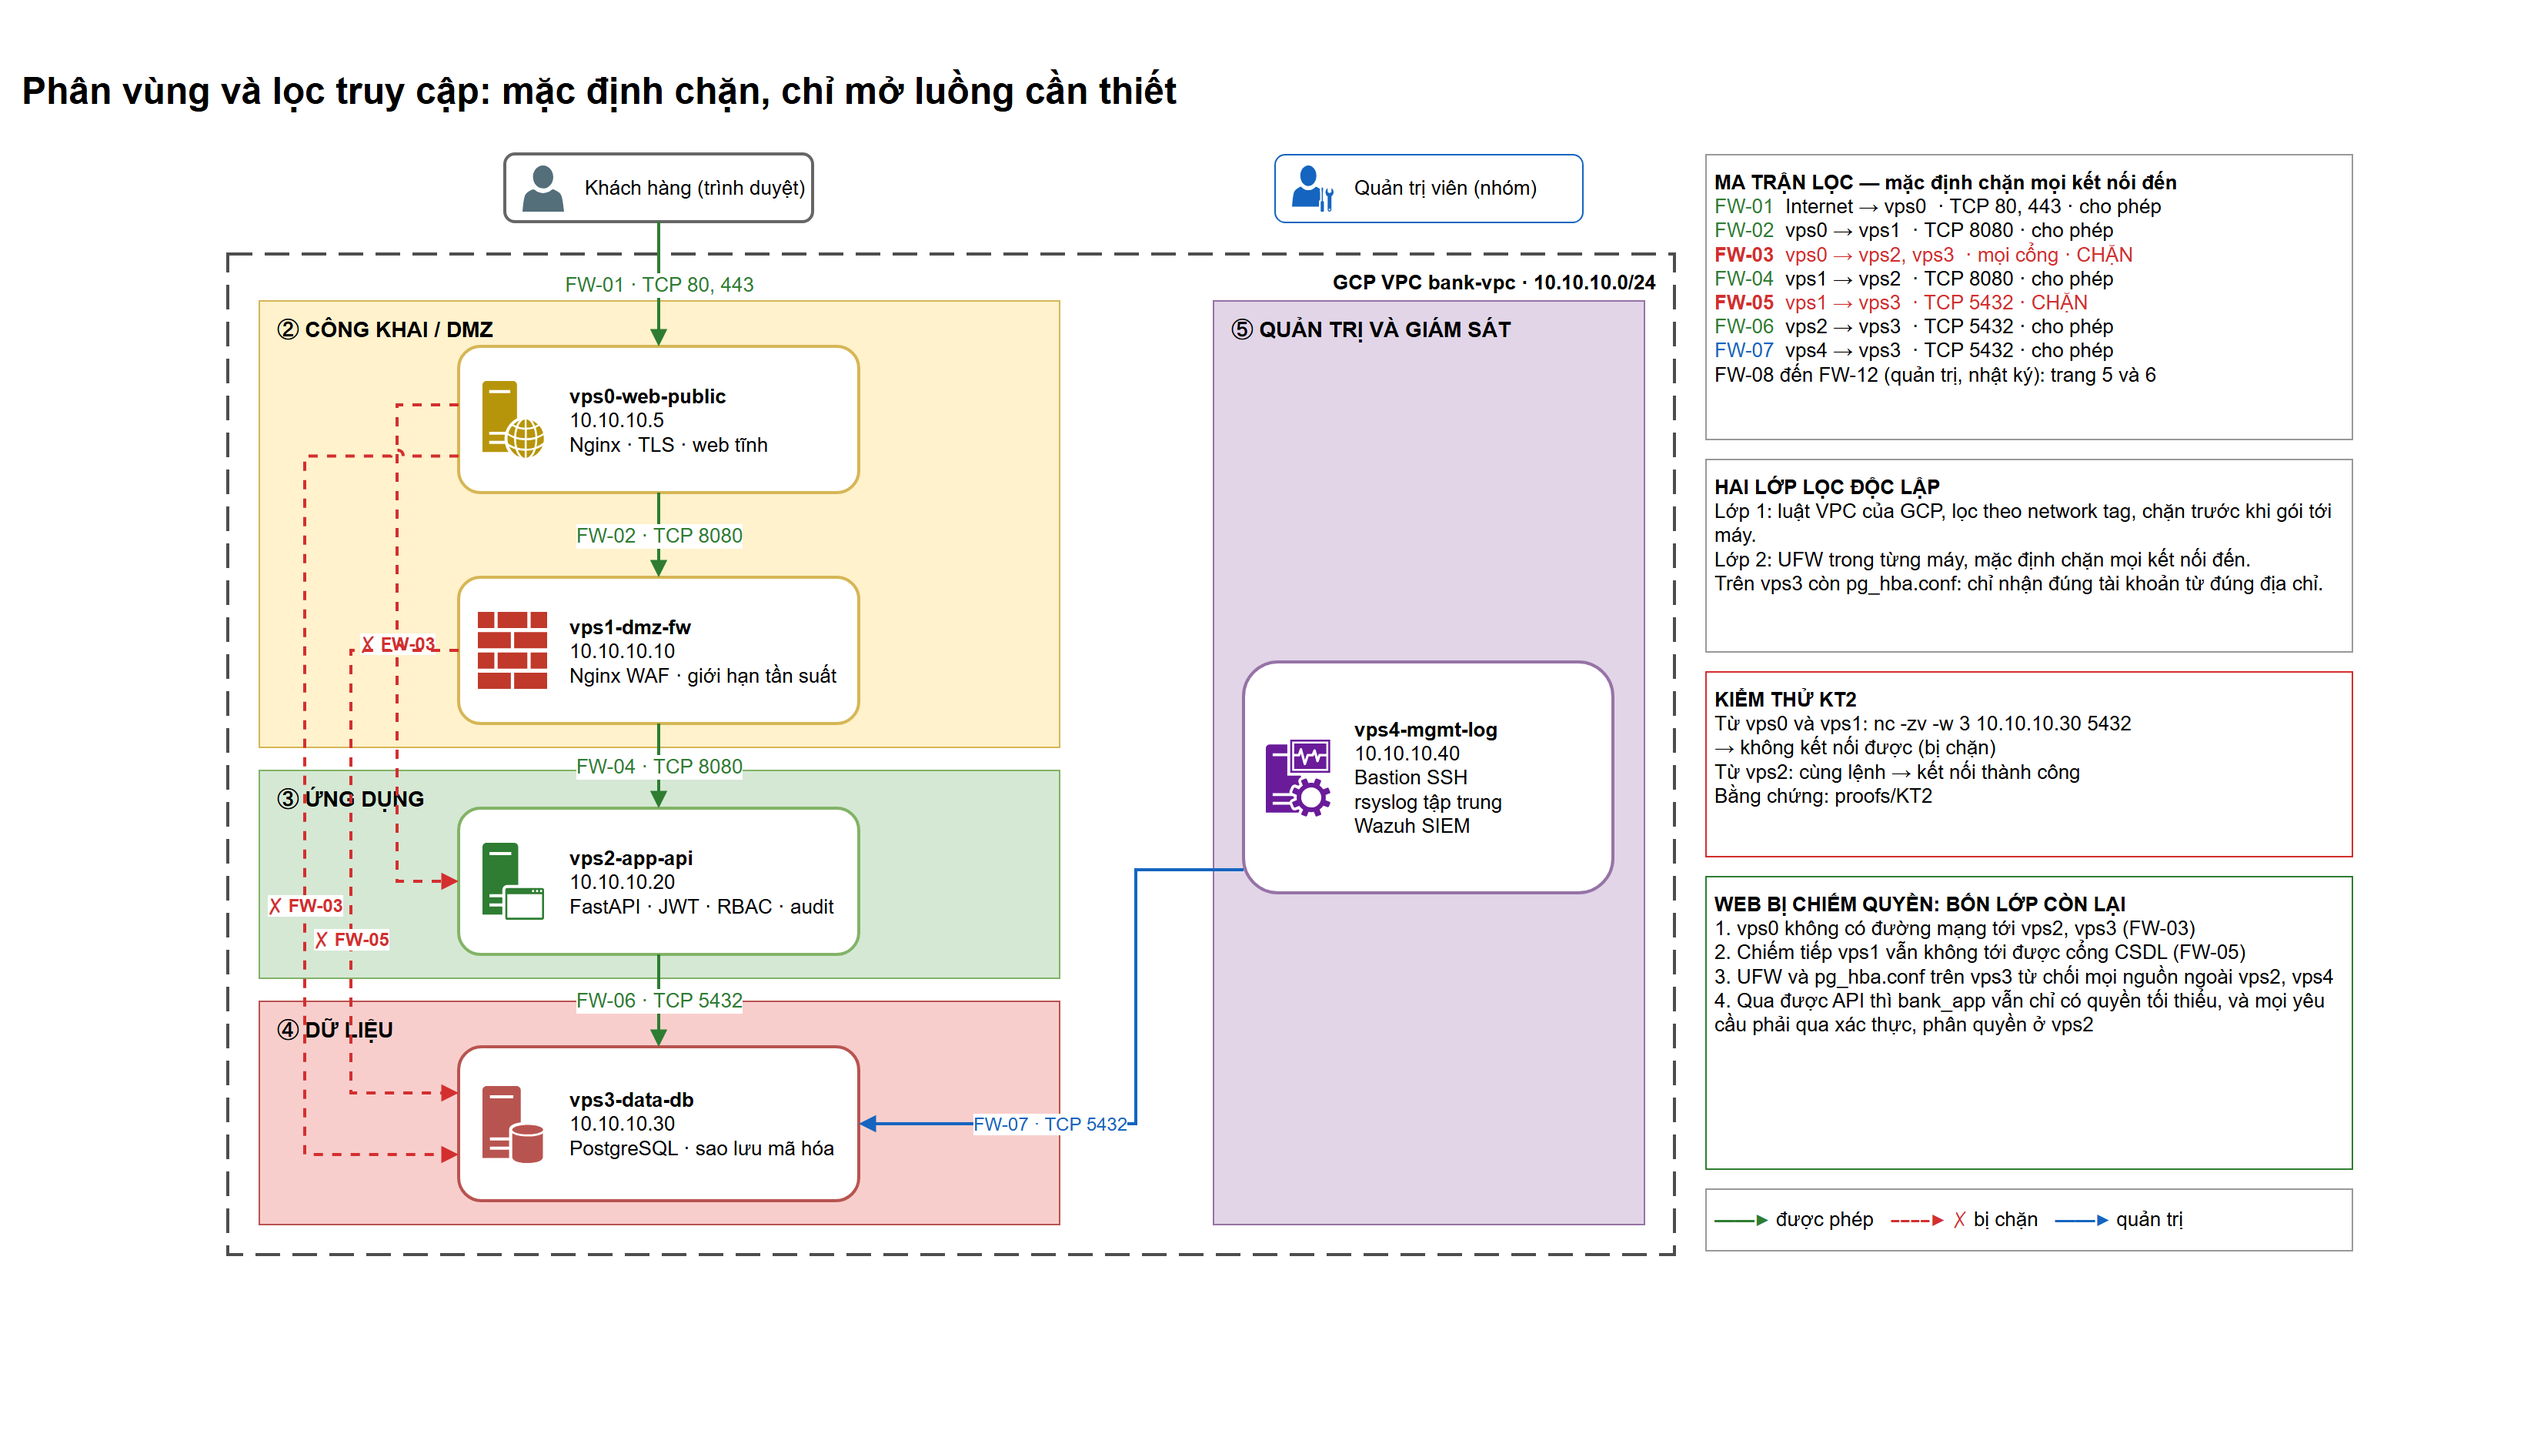
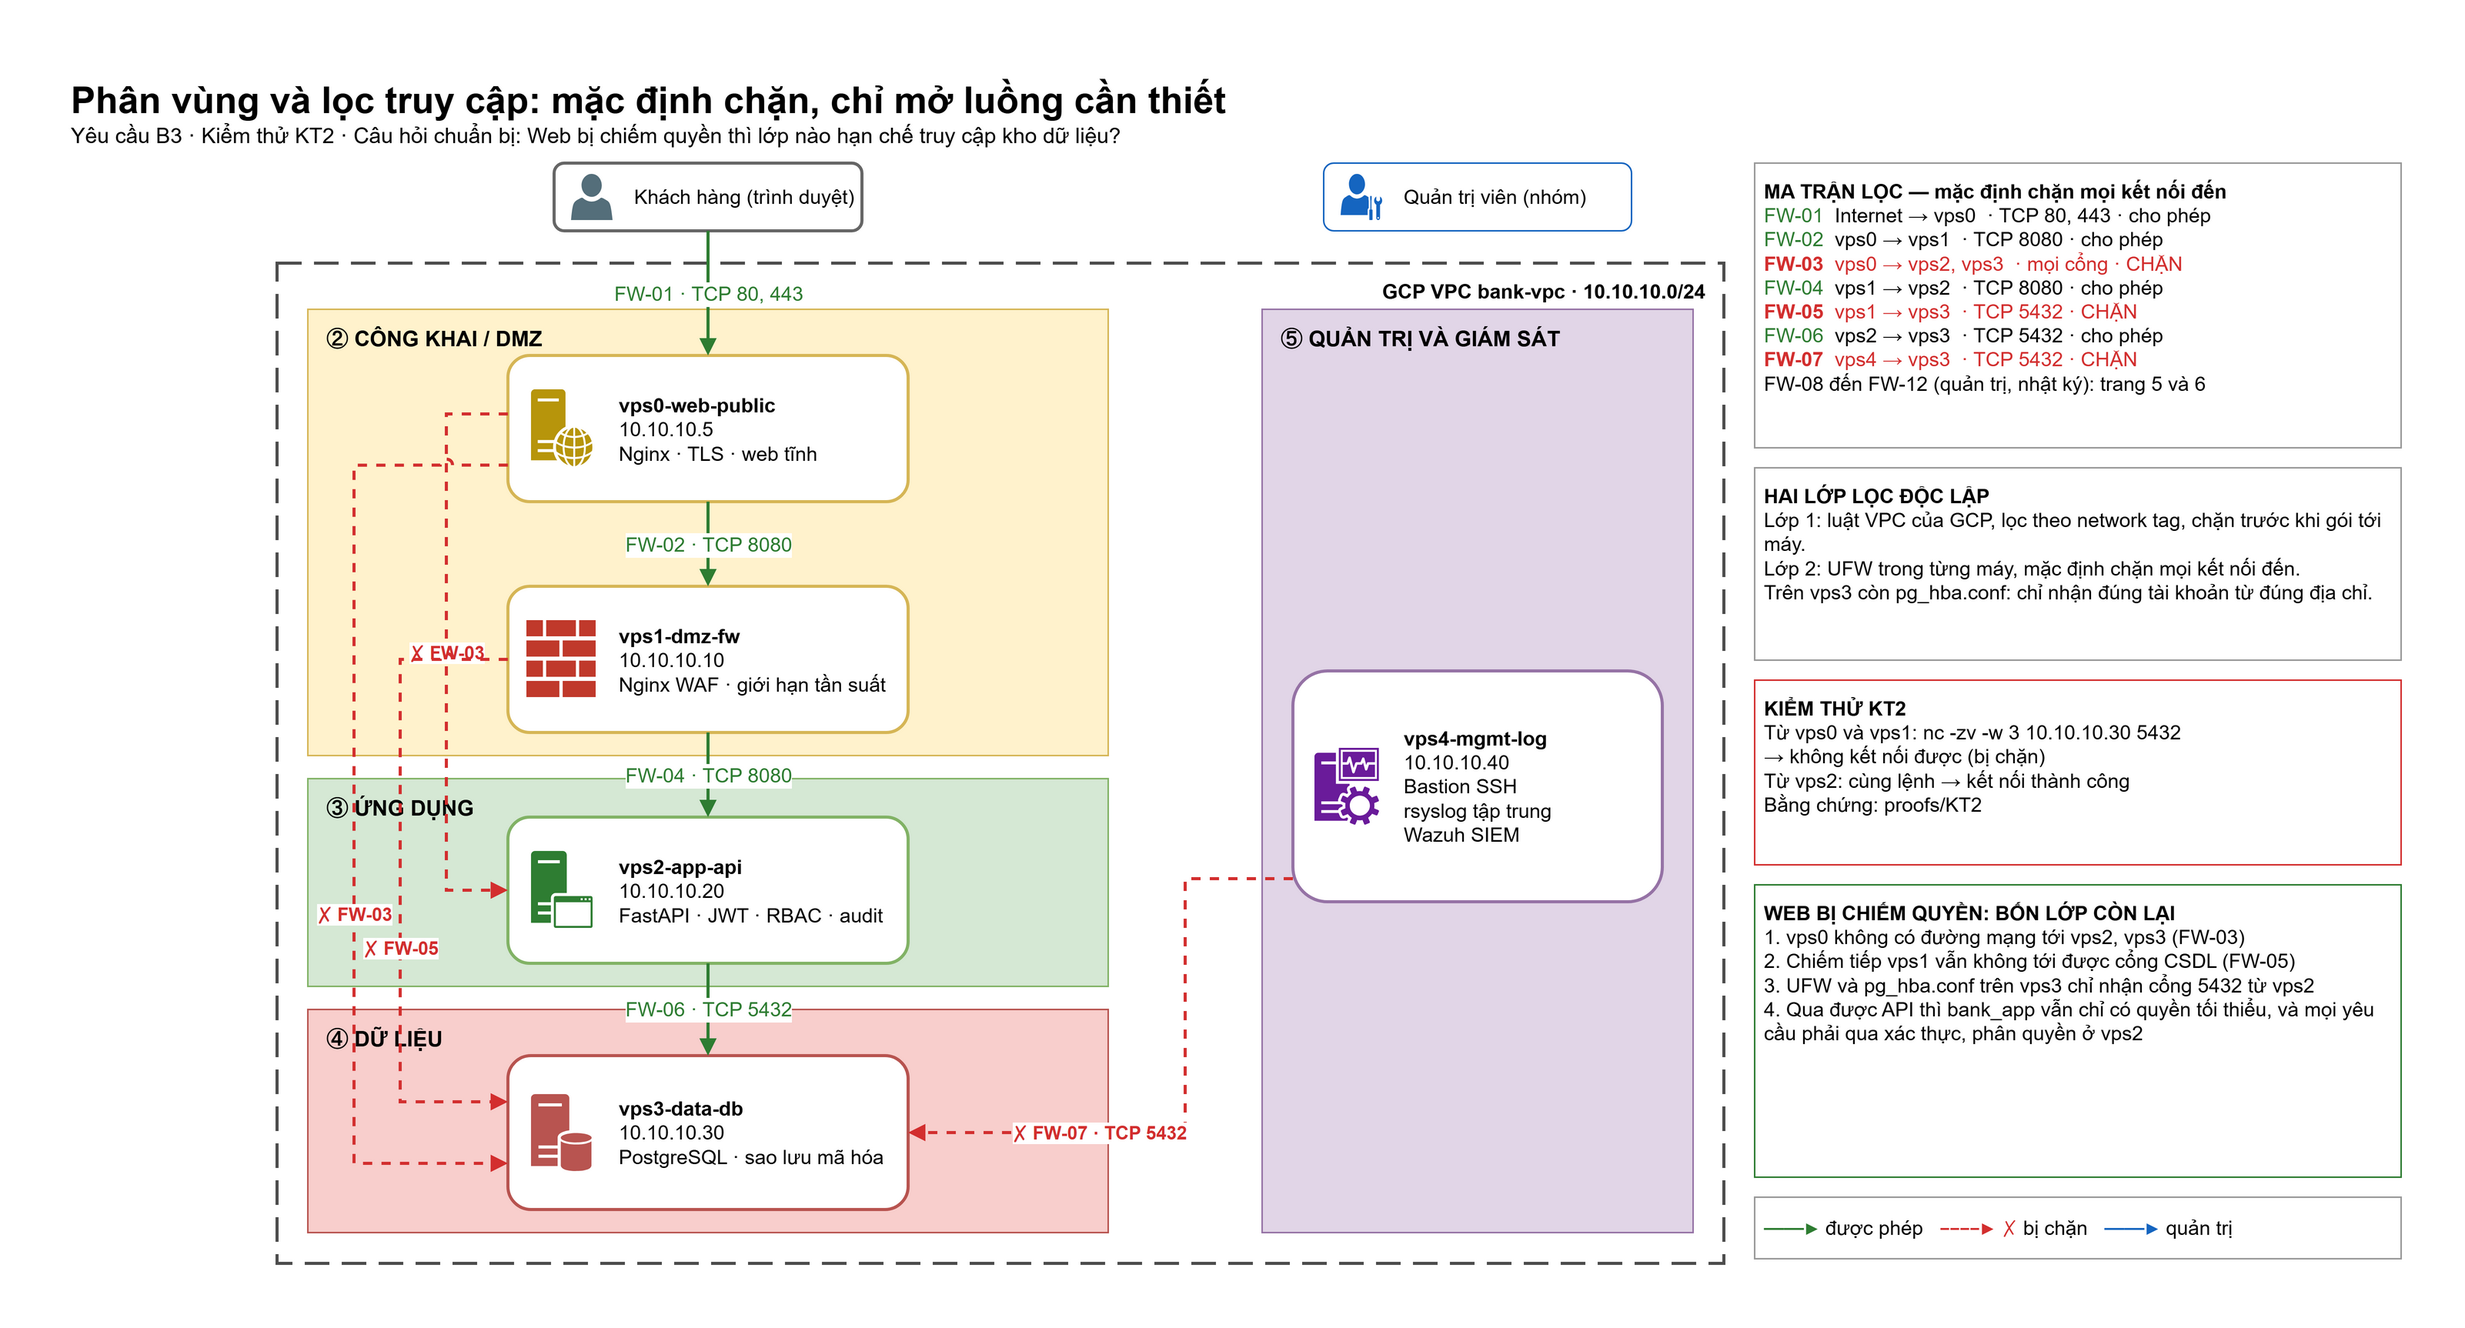
FW-07 chan vps4 -> vps3:5432, them HSTS tren vps0, README ghi SV1
- vps0-muoisau.conf: them Strict-Transport-Security (max-age 1 nam),
  sua duong dan file thanh muoisau.conf dung voi may that
- README: FW-07 la Chan vi sao luu chay ngay tren vps3; doi "truong nhom"
  thanh SV1 trong bang phan cong va muc nhat ky
- So do 03, 05: FW-07 ve thanh luong bi chan, ma tran loc cap nhat

diff --git a/README.md b/README.md
@@ -12,12 +12,12 @@ Nhóm 4 người. Mỗi người có sản phẩm kỹ thuật riêng và nộp 
 
 | Họ tên | MSSV | Vai trò | Phụ trách |
 |---|---|---|---|
-| `<Họ tên>` | `<MSSV>` | Trưởng nhóm, SV1 | Kiến trúc và phân tích nguy cơ, hạ tầng GCP, Wazuh SIEM giám sát 5 máy (agent, FIM, rule, dashboard) và so sánh với rsyslog (phần mở rộng tự chọn), tích hợp, README |
+| `<Họ tên>` | `<MSSV>` | SV1 | Kiến trúc và phân tích nguy cơ, hạ tầng GCP, Wazuh SIEM giám sát 5 máy (agent, FIM, rule, dashboard) và so sánh với rsyslog (phần mở rộng tự chọn), tích hợp, README |
 | `<Họ tên>` | `<MSSV>` | SV2 | Phân vùng và lọc truy cập: UFW, luật VPC, Nginx trên vps0 và vps1 |
 | `<Họ tên>` | `<MSSV>` | SV3 | Xác thực, dữ liệu, sao lưu: backend vps2, PostgreSQL vps3, sao lưu mã hóa và phục hồi |
 | `<Họ tên>` | `<MSSV>` | SV4 | Kiểm thử chính sách và nhật ký: audit log ba tầng, luồng log thô rsyslog, chạy và lưu bằng chứng KT1–KT3 |
 
-Ranh giới giữa luồng log thô (SV4) và SIEM (trưởng nhóm) nằm ở mục 4. Tài liệu nhiệm vụ của SV4: `NHIEM-VU-SV4-NHAT-KY-AN-NINH.md`.
+Ranh giới giữa luồng log thô (SV4) và SIEM (SV1) nằm ở mục 4. Tài liệu nhiệm vụ của SV4: `NHIEM-VU-SV4-NHAT-KY-AN-NINH.md`.
 
 ## 2. Phạm vi và giả định
 
@@ -53,7 +53,7 @@ Quản trị ──SSH──► vps4-mgmt-log       10.10.10.40  Bastion, rsyslo
 | `vps3-data-db` | Dữ liệu | 10.10.10.30 | Không | PostgreSQL, Wazuh agent |
 | `vps4-mgmt-log` | Quản trị | 10.10.10.40 | 34.87.139.11 | Bastion SSH, rsyslog tập trung, Wazuh all-in-one (agent cục bộ tự giám sát) |
 
-**Luật tường lửa chính** (mặc định chặn mọi kết nối đến; bảng đầy đủ nằm trong tài liệu của SV2 và trưởng nhóm):
+**Luật tường lửa chính** (mặc định chặn mọi kết nối đến; bảng đầy đủ nằm trong tài liệu của SV2 và SV1):
 
 | Mã | Nguồn | Đích | Cổng | Hành động |
 |---|---|---|---|---|
@@ -63,7 +63,7 @@ Quản trị ──SSH──► vps4-mgmt-log       10.10.10.40  Bastion, rsyslo
 | FW-04 | vps1 | vps2 | TCP 8080 | Cho phép |
 | FW-05 | vps1 | vps3 | TCP 5432 | Chặn |
 | FW-06 | vps2 | vps3 | TCP 5432 | Cho phép |
-| FW-07 | vps4 | vps3 | TCP 5432 | Cho phép |
+| FW-07 | vps4 | vps3 | TCP 5432 | Chặn (sao lưu chạy ngay trên vps3) |
 | FW-08 | vps4 | vps0–vps3 | TCP 22 | Cho phép |
 | FW-09 | vps0–vps3 | vps4 | TCP 514 | Cho phép (rsyslog, chỉ TCP) |
 | FW-10 | vps0–vps3 | vps4 | TCP 1514 | Cho phép (Wazuh agent gửi sự kiện) |
@@ -87,7 +87,7 @@ vps0, vps1, vps3: Wazuh agent ─TCP 1514─► vps4 (log hệ thống, FIM)
 | Giữ gì | Nguyên văn từng dòng log | Alert theo rule, FIM, tương quan sự kiện |
 | Phạm vi | Log ứng dụng (vps2) và log xác thực | Cả 5 máy: log hệ thống, FIM, log ứng dụng |
 | Dùng để | Bằng chứng gốc cho KT3, điều tra khi dashboard hỏng | Phát hiện và cảnh báo |
-| Phụ trách | SV4 | Trưởng nhóm |
+| Phụ trách | SV4 | SV1 |
 
 Nguyên tắc để hai luồng thật sự độc lập:
 - Cùng đọc một file nguồn, không đọc của nhau. Hỏng một luồng không làm hỏng luồng kia.
@@ -95,7 +95,7 @@ Nguyên tắc để hai luồng thật sự độc lập:
 - Không bật bộ thu syslog của Wazuh trên vps4 vì cùng dùng cổng 514 với rsyslog.
 - Không bật FIM trên thư mục log thô vì nó đổi liên tục và sẽ sinh alert liên tục.
 - Đĩa vps4 dùng chung, nên cả hai luồng cần logrotate và theo dõi `df -h`.
-- **Hợp đồng định dạng log:** decoder của Wazuh bám vào dòng `USER=… | ACTION=… | STATUS=… | IP=… | DETAILS=…` của `bank-app.log`. Đổi định dạng phải báo trưởng nhóm trước.
+- **Hợp đồng định dạng log:** decoder của Wazuh bám vào dòng `USER=… | ACTION=… | STATUS=… | IP=… | DETAILS=…` của `bank-app.log`. Đổi định dạng phải báo SV1 trước.
 - Đối soát: sau mỗi bài thử, so số sự kiện ở log thô, `audit_logs` và Wazuh. Số liệu lệch là dữ liệu so sánh độ phủ (chi tiết ở tài liệu SV4).
 
 ## 5. Cấu trúc thư mục
